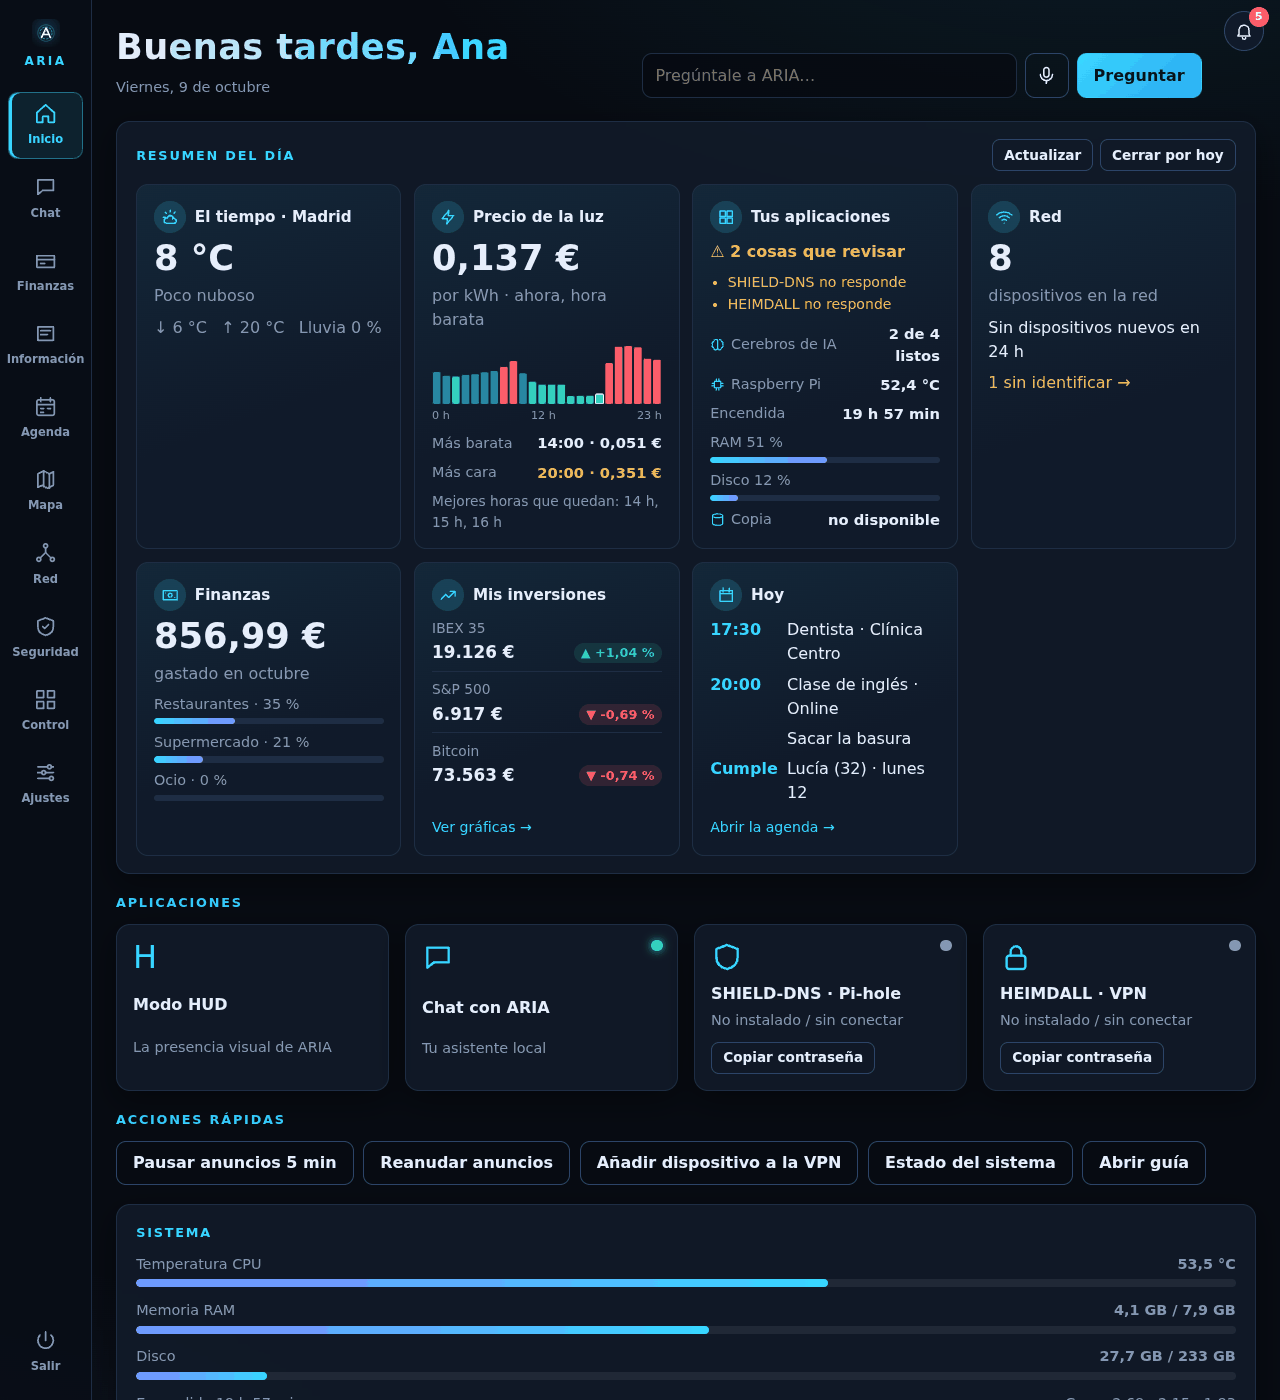
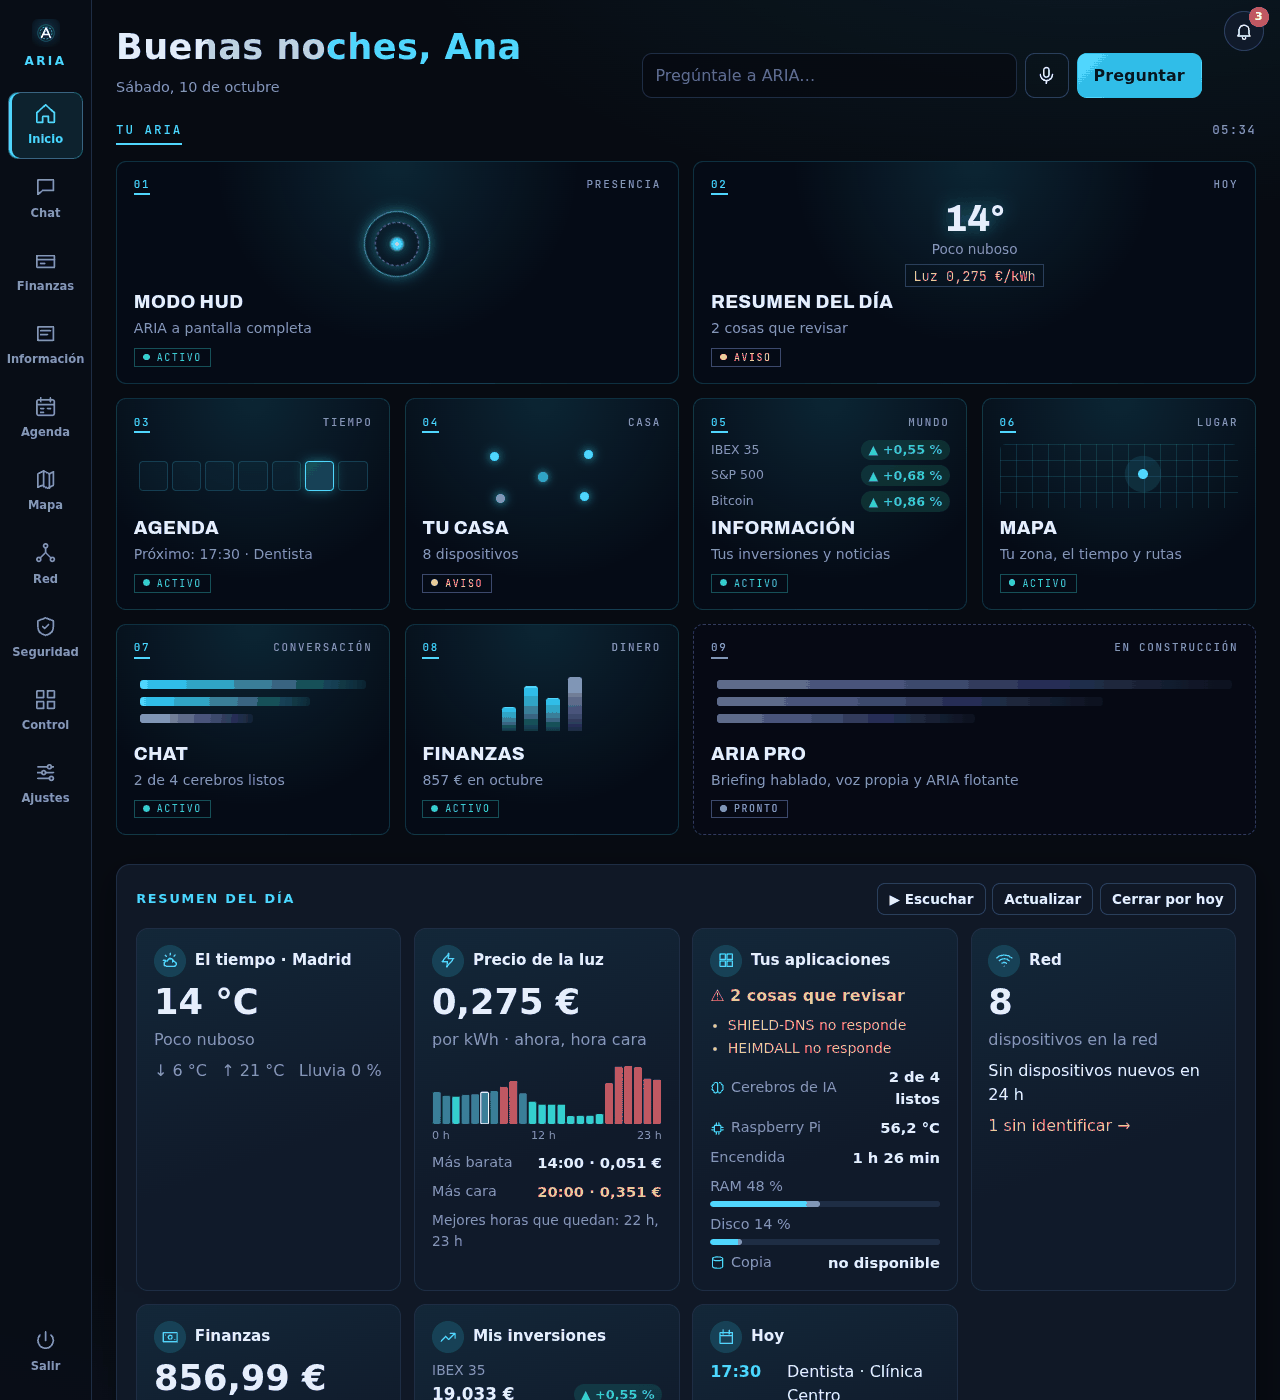
Docs: Ping, escaparate, Inicio en tarjetas, briefing hablado y cómo funciona la voz
- README: sección «Conoce a Ping» con capturas, novedades, esquema de la voz y capturas nuevas
- USO: Inicio en tarjetas numeradas, briefing hablado, el escaparate y Ping
- INSTALACION: abrir solo /hola en Cloudflare Access
- PLAN: estado de ARIA PRO
- capturar.py: capturas del escaparate (/hola)

diff --git a/herramientas/demo/capturar.py b/herramientas/demo/capturar.py
@@ -1,4 +1,4 @@
-"""Capturas de la ARIA de demostración (datos ficticios) con Chromium headless vía CDP.
+"""Capturas de la ARIA de demostración (datos ficticios) y de su escaparate público con Chromium headless vía CDP.
 
 Uso: python3 capturar.py SALIDA [nombre ...]   (necesita chromium, Pillow y websockets)
 """
@@ -24,6 +24,8 @@ PUERTO = 9341
 # nombre: (hash, ancho, alto, móvil, js previo, espera)
 HABLAR = ("window._t = setInterval(() => dispatchEvent(new CustomEvent('aria:estado', {detail: {estado: 'hablando', nivel: .55 + Math.random() * .35}})), 80);"
           "dispatchEvent(new CustomEvent('aria:hud-texto', {detail: {texto: 'Buenas tardes, Ana. Hoy en Madrid hará 20 grados y cielo despejado. A las 17:30 tienes el dentista.'}}));")
+ESCUCHANDO = ("document.body.classList.add('escuchando'); const s = document.getElementById('subtitulo');"
+              "s.textContent = 'Ah, y esa lucecita nerviosa es Ping. No le hagas mucho caso.'; s.classList.add('visible');")
 CAPTURAS = {
     "captura-inicio": ("inicio", 1280, 1400, False, "", 6),
     "captura-hud": ("hud", 1440, 900, False, HABLAR, 6),
@@ -41,6 +43,11 @@ CAPTURAS = {
     "captura-movil-agenda": ("agenda", 390, 844, True, "document.querySelector('.agenda-tab[data-modo=lista]').click()", 4),
     "captura-movil-red": ("red", 390, 844, True, "document.getElementById('red-tabla').scrollIntoView()", 4),
     "captura-movil-ajustes": ("ajustes", 390, 844, True, "localStorage.setItem('aria_ajustes_seccion','general'); location.reload()", 5),
+    # Escaparate público (/hola): rutas que empiezan por «/» se abren tal cual, sin #vista
+    "captura-escaparate": ("/hola", 1440, 900, False, ESCUCHANDO, 4),
+    "captura-escaparate-menu": ("/hola", 1440, 900, False, "document.getElementById('menu').scrollIntoView()", 4),
+    "captura-ping": ("/hola", 1280, 820, False, "document.querySelector('[data-demo=demo-casa]').click()", 5),
+    "captura-movil-escaparate": ("/hola", 390, 844, True, "", 4),
 }
 
 
@@ -100,7 +107,7 @@ async def main(salida: Path, nombres):
                 h, an, al, movil, previo, espera = CAPTURAS[nombre]
                 await c("Emulation.setDeviceMetricsOverride", width=an, height=al, deviceScaleFactor=2 if movil else 1, mobile=movil)
                 await c("Emulation.setEmulatedMedia", features=[{"name": "prefers-color-scheme", "value": "dark"}])
-                await c("Page.navigate", url=f"{BASE}/#{h}")
+                await c("Page.navigate", url=f"{BASE}{h}" if h.startswith("/") else f"{BASE}/#{h}")
                 await asyncio.sleep(2.5)
                 await c.js("location.reload()")
                 await asyncio.sleep(espera)

diff --git a/README.md b/README.md
@@ -50,14 +50,36 @@ ARIA se amplía con **módulos**: cada aplicación que añades aparece en su pá
 </p>
 
 <p align="center">
-  <img alt="Página de Inicio de ARIA con el resumen del día en tarjetas" src="docs/img/captura-inicio.png" width="100%">
-  <br><sub><b>Inicio</b>: el resumen del día en tarjetas (tiempo, precio de la luz, estado de tus aplicaciones, red, finanzas, inversiones y agenda). Instancia de demostración con datos ficticios.</sub>
+  <img alt="Página de Inicio de ARIA: menú de tarjetas numeradas (HUD, resumen del día, agenda, tu casa, información, mapa, chat, finanzas) y debajo el resumen del día" src="docs/img/captura-inicio.png" width="100%">
+  <br><sub><b>Inicio</b>: un menú de tarjetas numeradas con un dato vivo en cada una (el tiempo, tu próxima cita, los dispositivos de casa…) y su estado, y debajo el resumen del día con ▶ <b>Escuchar</b>. Instancia de demostración con datos ficticios.</sub>
 </p>
+
+### 🧚 Conoce a Ping
+
+<table>
+  <tr>
+    <td width="58%"><img alt="Escaparate público de ARIA: marca ARIA gigante, el orbe y Ping, un hada de luz holográfica, revoloteando junto al logotipo" src="docs/img/captura-escaparate.png"></td>
+    <td width="42%"><img alt="Demo «Tu casa» del escaparate: Ping junto a los anuncios atrapados, los dispositivos de la red y la VPN" src="docs/img/captura-ping.png"></td>
+  </tr>
+</table>
+
+**Ping** es la compañera de ARIA: una pequeña **hada de luz holográfica** que vive en la red de casa. Atrapa los anuncios (SHIELD-DNS), vigila quién entra por la VPN (HEIMDALL) y lleva la cuenta de todo con mucho orgullo: «¡Eh, mira! 1.284 anuncios atrapados hoy».
+
+- **Cambia de color según lo que pasa**: cian si todo va bien, ámbar si hay algo que mirar, rosa si es una alerta y violeta mientras piensa.
+- **Tiene voz propia**, muy aguda y traviesa, y un tintineo de tres notas compuesto para ARIA. Cuando ARIA la presenta («…esa lucecita nerviosa es Ping»), ARIA hace una pausa y Ping suelta su «¡Eh, mira!».
+- **Vuela sola**: al principio sigue tu ratón y luego revolotea por libre. Está dibujada en un `<canvas>` propio, sin imágenes externas, y respeta «reducir movimiento».
+
+Ping se estrena en el **escaparate público** de ARIA (`/hola`): una página estática que enseña qué es ARIA a cualquiera sin exponer nada de casa (datos de ejemplo, voz pregrabada, sin servidor ni analítica). Tiene una portada con el orbe, el interruptor **«Quiero escuchar a ARIA»** para que se presente con su voz, un menú de demos, «Qué funciona hoy» y unas preguntas con respuesta.
+
+> Ping está inspirada en el espíritu de las hadas guía de los videojuegos clásicos, pero su diseño, su nombre, su voz y sus sonidos son originales de ARIA.
 
 ### 🆕 Novedades
 
 | | Qué hay de nuevo |
 |:---:|---|
+| 🧚 | **Escaparate «Conoce a ARIA»** (`/hola`) y **Ping**, su hada de luz con voz propia: ARIA se presenta con su voz y Ping la interrumpe con un «¡Eh, mira!». Página pública y estática, sin datos reales. |
+| 🔢 | **Inicio en tarjetas numeradas**: 01 HUD · 02 Resumen del día · 03 Agenda · 04 Tu casa · 05 Información · 06 Mapa · 07 Chat · 08 Finanzas, cada una con un dato vivo y su estado (ACTIVO, AVISO, PRONTO). |
+| 🎧 | **Briefing hablado**: el resumen del día contado por ARIA en un minuto. Por Telegram cada mañana como **nota de voz** (y con el botón **🔊 Escuchar**), en el HUD (**Briefing del día**) y en Inicio (**▶ Escuchar**). Se sintetiza una vez y se guarda, así que apenas gasta cuota de voz. |
 | 🌌 | **Modo HUD** (`#hud`): escena futurista con rejilla animada, orbe que «mira» al ratón y tarjetas que se iluminan y giran en 3D al pasar por encima. **Opciones**: qué tarjetas ver, 5 colores, efectos, reloj con segundos y voz. **Modo quiosco** para una tableta (pantalla siempre encendida, controles que se esconden). |
 | ⚡ | **Precio de la luz** (PVPC de España, sin claves): precio de ahora, horas más baratas y caras, gráfico de las 24 horas en Inicio y el HUD, y en el chat («¿cuándo pongo la lavadora?»). |
 | 📲 | **Agenda en el móvil**: suscríbete desde el calendario del iPhone, Android u Outlook con un enlace privado (se actualiza solo) o descarga un `.ics`. |
@@ -75,7 +97,9 @@ ARIA se amplía con **módulos**: cada aplicación que añades aparece en su pá
 
 - [✨ Qué puede hacer](#-qué-puede-hacer)
 - [📸 Capturas](#-capturas)
+- [🧚 Conoce a Ping](#-conoce-a-ping)
 - [🧩 Cómo está hecha](#-cómo-está-hecha)
+  - [🎙 Cómo funciona la voz](#-cómo-funciona-la-voz)
 - [📋 Requisitos](#-requisitos)
 - [🚀 Inicio rápido (5 minutos)](#-inicio-rápido-5-minutos)
 - [📚 Guías](#-guías)
@@ -95,7 +119,7 @@ ARIA se amplía con **módulos**: cada aplicación que añades aparece en su pá
 | | Grupo | Qué incluye |
 |:---:|---|---|
 | 💬 | **Asistente y chat** | Chat con conversaciones guardadas, respuestas en directo, botón Detener, copiar y Markdown.<br>**Agentes especializados**: ARIA (general), `@finanzas`, `@redes` y `@seguridad`. ARIA elige el adecuado sola o lo eliges tú.<br>**Búsqueda en internet y noticias** con un metabuscador propio (SearXNG), citando las fuentes.<br>**Resumir enlaces** que pegas o compartes desde el móvil.<br>**Visión**: mándale una foto y pregúntale por ella; si es un ticket, te propone apuntar el gasto. |
-| 🎙 | **Voz** | Micrófono (pulsar para hablar), botón **Leer** en cada respuesta y modo **manos libres**: dices «Aria» y tu pregunta.<br>Voz natural en la nube con respaldo local en tu máquina; transcripción en la nube con respaldo local. |
+| 🎙 | **Voz** | Micrófono (pulsar para hablar), botón **Leer** en cada respuesta y modo **manos libres**: dices «Aria» y tu pregunta.<br>**Briefing hablado** del día (un minuto) en Telegram, el HUD e Inicio.<br>Voz natural en la nube con respaldo local en tu máquina; transcripción en la nube con respaldo local. Ver [cómo funciona la voz](#-cómo-funciona-la-voz). |
 | 🧠 | **Memoria y automatización** | **Memoria**: recuerda datos tuyos («recuerda que…») y escribe un **diario** de cada día.<br>**Resumen de buenos días** en Inicio, en el chat y, si quieres, por Telegram o notificación.<br>**Recordatorios** en lenguaje natural («recuérdame mañana a las 9…») y **rutinas** programadas («cada mañana a las 8, dime el tiempo y tres titulares»). |
 | 🔔 | **Avisos y canales** | Campana de avisos en la web, **bot de Telegram** propio y **notificaciones push** en el móvil o el navegador.<br>Vigila la casa sola: servicios caídos, dispositivos desconocidos, temperatura, disco, copias atrasadas… |
 | 🏡 | **Tu casa y tu red** | **Finanzas personales**: movimientos, categorías, presupuestos e importación del CSV del banco.<br>**Inventario de red**: dispositivos de la LAN, latencia, test de velocidad e historial.<br>**Seguridad**: escaneo defensivo de puertos de tu red y búsqueda de vulnerabilidades conocidas.<br>**Control parental** por dispositivo (pausar internet, bloquear TikTok, YouTube…, horarios), mediante SHIELD-DNS. |
@@ -137,6 +161,9 @@ ARIA se amplía con **módulos**: cada aplicación que añades aparece en su pá
     <td><img alt="Panel de avisos abierto desde la campana" src="docs/img/captura-avisos.png"><p align="center"><sub><b>Avisos</b>: la campana de la casa</sub></p></td>
     <td><img alt="Ajustes, sección Rutinas" src="docs/img/captura-rutinas.png"><p align="center"><sub><b>Rutinas</b>: tareas que ARIA hace sola</sub></p></td>
   </tr>
+  <tr>
+    <td colspan="2"><img alt="Menú del escaparate público con cinco tarjetas numeradas: su presencia, tu tiempo, red VPN y anuncios con Ping, el mundo resumido y qué funciona hoy" src="docs/img/captura-escaparate-menu.png"><p align="center"><sub><b>Escaparate</b> (<code>/hola</code>): cada tarjeta abre una demo de solo lectura con datos de ejemplo</sub></p></td>
+  </tr>
 </table>
 
 <details>
@@ -157,6 +184,8 @@ ARIA se amplía con **módulos**: cada aplicación que añades aparece en su pá
   <img alt="Dispositivos de la red en fichas, en el móvil" src="docs/img/captura-movil-red.png" width="230">
   &nbsp;
   <img alt="Ajustes en el móvil, con pestañas de secciones" src="docs/img/captura-movil-ajustes.png" width="230">
+  &nbsp;
+  <img alt="Escaparate público de ARIA en el móvil, con Ping" src="docs/img/captura-movil-escaparate.png" width="230">
 </p>
 
 <p align="center"><img alt="Centro de control con SHIELD-DNS, HEIMDALL y el sistema en directo por contenedor" src="docs/img/captura-centro-control.png" width="100%"><br><sub><b>Centro de control</b>: SHIELD-DNS, HEIMDALL, el sistema en directo y el reinicio seguro</sub></p>
@@ -230,6 +259,20 @@ sequenceDiagram
     IA-->>A: Respuesta redactada
     A-->>T: Respuesta en directo con la insignia del cerebro y del agente
 ```
+
+### 🎙 Cómo funciona la voz
+
+| Paso | Qué se usa | Respaldo | Dónde ocurre |
+|---|---|---|---|
+| **Oír «Aria»** (manos libres) | Detector de palabra clave en `aria-voz` | — | Siempre en tu máquina: el sonido no sale de casa |
+| **Entender lo que dices** | Whisper en **Groq** (gratis, muy rápido) | **faster-whisper** en `aria-voz` | Nube o tu máquina |
+| **Hablar** | **Gemini TTS**: 14 voces femeninas, con tono y acento de España | **Piper** en `aria-voz` (voz femenina española) o tu **voz propia** | Nube o tu máquina |
+| **Notas de voz de Telegram** | La misma voz, convertida a OGG/Opus en `aria-voz` | WAV | Tu máquina |
+| **Escaparate y Ping** | Audio **pregrabado** (MP3) | Subtítulos | El navegador del visitante |
+
+- **Cuota**: la capa gratuita de Gemini da pocas síntesis al día. Por eso las muestras de voces, las frases repetidas y el **briefing hablado** se guardan, y cuando la cuota se agota ARIA habla con Piper y avisa hasta qué hora.
+- **Voz propia**: si dejas un modelo Piper (`.onnx` + `.onnx.json`) en `data/voz-propia/`, ARIA puede usarlo como voz sin internet ni cuotas. En [`herramientas/voz-propia/`](herramientas/voz-propia/) tienes cómo grabarla (siempre con el consentimiento de quien pone la voz) y un cuaderno para entrenarla gratis en Google Colab.
+- **Privacidad**: el audio que grabas no se guarda nunca; solo se transcribe y se descarta.
 
 <p align="right"><a href="#readme-top">⬆ Volver arriba</a></p>
 

diff --git a/docs/USO.md b/docs/USO.md
@@ -62,8 +62,8 @@ Arriba a la derecha está la **campana** de avisos.
 Es la página que ves al entrar.
 
 - **«Pregúntale a ARIA»**: escribe (o pulsa el micrófono) y se abre un chat con tu pregunta.
-- **Resumen del día**: tarjetas con el tiempo, tus aplicaciones, la red, tus finanzas, tus inversiones y tu agenda de hoy (ver [Resumen diario](#resumen-diario)). Puedes cerrarlo por hoy o actualizarlo.
-- **Modo HUD**: el primer mosaico abre la [pantalla HUD](#modo-hud).
+- **Tu ARIA, en tarjetas numeradas**: *01 Modo HUD*, *02 Resumen del día*, *03 Agenda*, *04 Tu casa* (solo administradores), *05 Información*, *06 Mapa*, *07 Chat* y *08 Finanzas*. Cada tarjeta enseña un dato vivo (el tiempo y la luz, tu próxima cita, los dispositivos de casa y los anuncios atrapados, tus inversiones, lo gastado este mes…) y su estado: **ACTIVO**, **AVISO** si hay algo que mirar o **PRONTO** para lo que está en construcción. Al pulsar una, vas a esa sección; *Resumen del día* te lleva al resumen (y lo vuelve a abrir si lo cerraste).
+- **Resumen del día**: tarjetas con el tiempo, tus aplicaciones, la red, tus finanzas, tus inversiones y tu agenda de hoy (ver [Resumen diario](#resumen-diario)). **▶ Escuchar** lo lee ARIA en un minuto ([briefing hablado](#briefing-hablado)); también puedes cerrarlo por hoy o actualizarlo.
 - **Aplicaciones**: un mosaico por aplicación (Chat, SHIELD-DNS, HEIMDALL y los [módulos](MODULOS.md) que tengas). El punto de color dice si está **activa**, **caída** o **sin instalar**. Al pulsar, se abre en una pestaña nueva. En SHIELD-DNS y HEIMDALL, **Copiar contraseña** te ahorra teclearla en su panel (solo administradores).
 - **Acciones rápidas** (administradores): *Pausar anuncios 5 min*, *Reanudar anuncios*, *Añadir dispositivo a la VPN* y *Estado del sistema*.
 - **Sistema**: temperatura, memoria, disco y carga de la máquina.
@@ -135,6 +135,10 @@ En **Ajustes → General → Voz**, apartado **Voz de ARIA**:
 
 La elección es de cada usuario y se usa en la web, el HUD y las notas de voz de Telegram. Las muestras se guardan, así que escuchar otra vez la misma combinación no gasta cuota. La capa gratuita de Gemini permite pocas voces por minuto y por día: si se agota, ARIA usa su voz local (femenina, española) hasta que se recupere.
 
+### El escaparate y Ping
+
+En `/hola` hay una página **pública** para enseñar ARIA a quien quieras sin darle acceso a nada: datos de ejemplo, voz pregrabada y ninguna llamada a tu ARIA. Activa **«Quiero escuchar a ARIA»** para que se presente; en mitad de la presentación, **Ping** (el hada de luz que vigila la red) la interrumpe con su «¡Eh, mira!». Ping sigue tu ratón unos segundos y después vuela por libre. Si usas Cloudflare Access, mira cómo abrir solo esa página en la [guía de instalación](INSTALACION.md).
+
 Privacidad: para detectar «Aria», el sonido va a tu máquina (nunca fuera). Lo que dices después se transcribe con Groq (o en tu máquina si no hay clave). **El audio no se guarda nunca.**
 
 ## Imágenes y tickets
@@ -170,6 +174,15 @@ Un único resumen que verás igual en tres sitios: la tarjeta **Resumen del día
 
 - Por **Telegram** o **notificación** a la hora que elijas (por defecto, las 08:00): actívalo en **Ajustes → Avisos**. En Telegram llega con botones: **Abrir ARIA**, **Agenda**, **Actualizar** y, para administradores, **Pausar anuncios 30 min**. También puedes pedirlo cuando quieras con `/resumen` o diciéndole «resúmeme el día».
 - El resumen se prepara una vez cada 10 minutos como mucho; **Actualizar** lo rehace al momento.
+
+### Briefing hablado
+
+El resumen del día, **contado por ARIA en un minuto** y con la voz que elegiste: el tiempo, las horas de luz más baratas, tu agenda en orden, los cumpleaños de hoy, cómo está la casa, tus gastos del mes y lo que más se mueve en tus inversiones.
+
+- **Telegram**: debajo del resumen de la mañana llega como **nota de voz**. Puedes quitarlo en **Ajustes → Avisos** («En Telegram, también con la voz de ARIA»). Y en cualquier resumen, el botón **🔊 Escuchar** te lo manda al momento.
+- **HUD**: acción rápida **Briefing del día**, con el texto en subtítulos.
+- **Inicio**: **▶ Escuchar** en la tarjeta del resumen (y **■ Parar**).
+- Se prepara una vez por la mañana, otra por la tarde y otra por la noche, y se guarda: escucharlo otra vez no gasta cuota de voz. Si la cuota de Gemini está agotada, lo lee la voz local y se vuelve a intentar con tu voz más tarde.
 
 ## Recordatorios
 

diff --git a/docs/PLAN.md b/docs/PLAN.md
@@ -109,20 +109,20 @@ Ya disponible (ver la [guía de uso](USO.md)):
 - **Resumen diario** en Inicio, HUD y Telegram (con botones); **sistema en directo**, **reinicio seguro** y **automatizaciones**.
 - **HUD futurista** con tarjetas interactivas, opciones y modo quiosco; **precio de la luz** (PVPC); **agenda en el móvil** (iCalendar); **verificación en dos pasos**; gráficas de cripto; Ajustes por secciones.
 
-## Próximo: ARIA PRO (propuesta)
+## ARIA PRO (en marcha)
 
-Pendiente de aprobación. La idea es enseñar ARIA mejor y darle funciones de asistente «de película», sin perder lo que es: una IA de casa, cálida y que no hace nada sin permiso.
+Aprobado y en curso. La idea es enseñar ARIA mejor y darle funciones de asistente «de película», sin perder lo que es: una IA de casa, cálida y que no hace nada sin permiso.
 
 | Bloque | Qué | Estado |
 |---|---|---|
-| **Escaparate público** | Página «Conoce a ARIA»: portada oscura con su voz presentándose (pregrabada), menú en tarjetas numeradas y demos de solo lectura con datos inventados. Sin IA en vivo, sin formularios ni analítica | Propuesta |
-| **Inicio en tarjetas** | El menú principal de ARIA como tarjetas numeradas con estado (activo, aviso, pronto) | Propuesta |
-| **Voz «Elegante»** | Nuevo tono: serena, segura, con un punto de ironía amable | Propuesta |
+| **Escaparate público** | Página «Conoce a ARIA»: portada oscura con su voz presentándose (pregrabada), menú en tarjetas numeradas y demos de solo lectura con datos inventados. Sin IA en vivo, sin formularios ni analítica y **Ping**, su hada de luz con voz propia, en `/hola` | ✅ Hecho |
+| **Inicio en tarjetas** | El menú principal de ARIA como tarjetas numeradas con estado (activo, aviso, pronto) | ✅ Hecho |
+| **Voz «Elegante»** | Nuevo tono: serena, segura, con un punto de ironía amable | ✅ Hecho |
 | **Voz diseñada** | Una voz nueva creada a partir de una descripción (Qwen3-TTS VoiceDesign, Apache 2.0) y entrenada para Piper con [herramientas/voz-propia](../herramientas/voz-propia/README.md): local y sin cuotas | Propuesta |
 | **Voz en streaming** | Empezar a hablar al terminar la primera frase | Propuesta |
 | **Memoria de verdad** | Búsqueda semántica local, recuerdos con fuente y confianza, olvido de lo que no se usa | Propuesta |
 | **Proactividad con permiso** | ARIA propone acciones ante eventos en una bandeja (aprobar o rechazar) y registra todo lo que hace | Propuesta |
-| **Briefing hablado** | Un minuto de voz cada mañana con lo importante | Propuesta |
+| **Briefing hablado** | Un minuto de voz cada mañana con lo importante (Telegram como nota de voz, HUD e Inicio) | ✅ Hecho |
 | **Ojos y gestos en el HUD** | Cámara bajo petición («¿qué ves?») y control con la mano (MediaPipe, en el navegador) | Propuesta |
 | **Mapa 3D** | MapLibre + OpenFreeMap: edificios en 3D y «vuela a…», sin claves | Propuesta |
 | **ARIA flotante** | Mini-ventana siempre visible en el PC con orbe, subtítulos y micrófono | Propuesta |

diff --git a/docs/INSTALACION.md b/docs/INSTALACION.md
@@ -308,6 +308,16 @@ Si quieres que el calendario del móvil se actualice con tu agenda de ARIA tambi
 
 Solo se abre `/cal/<token>.ics`, de solo lectura: el token es largo, aleatorio y revocable desde ARIA.
 
+### Escaparate público «Conoce a ARIA» (opcional)
+
+ARIA trae una página pública, `/hola`, que la presenta (con Ping y su voz pregrabada) sin datos reales ni llamadas a tu ARIA. Quien entra en `/` sin sesión acaba en ella. Para que se vea desde internet con Cloudflare Access:
+
+1. Zero Trust → Access → Applications → **Create new application** → *Self-hosted and private*.
+2. Dos destinos: `aria.tu-dominio.com` con la ruta `hola` y `aria.tu-dominio.com` con la ruta `static/escaparate`.
+3. Política con acción **Bypass** e *Include → Everyone*.
+
+Cloudflare aplica primero la aplicación con la ruta más concreta, así que solo esas dos rutas quedan abiertas; todo lo demás (`/`, `/login`, `/api/…`) sigue pidiendo tu acceso. Como `/` sigue protegida, comparte el enlace directo a `/hola`.
+
 ### Inicio de sesión único (SSO)
 
 Para que ARIA no te vuelva a pedir contraseña cuando ya has pasado por Cloudflare Access:
